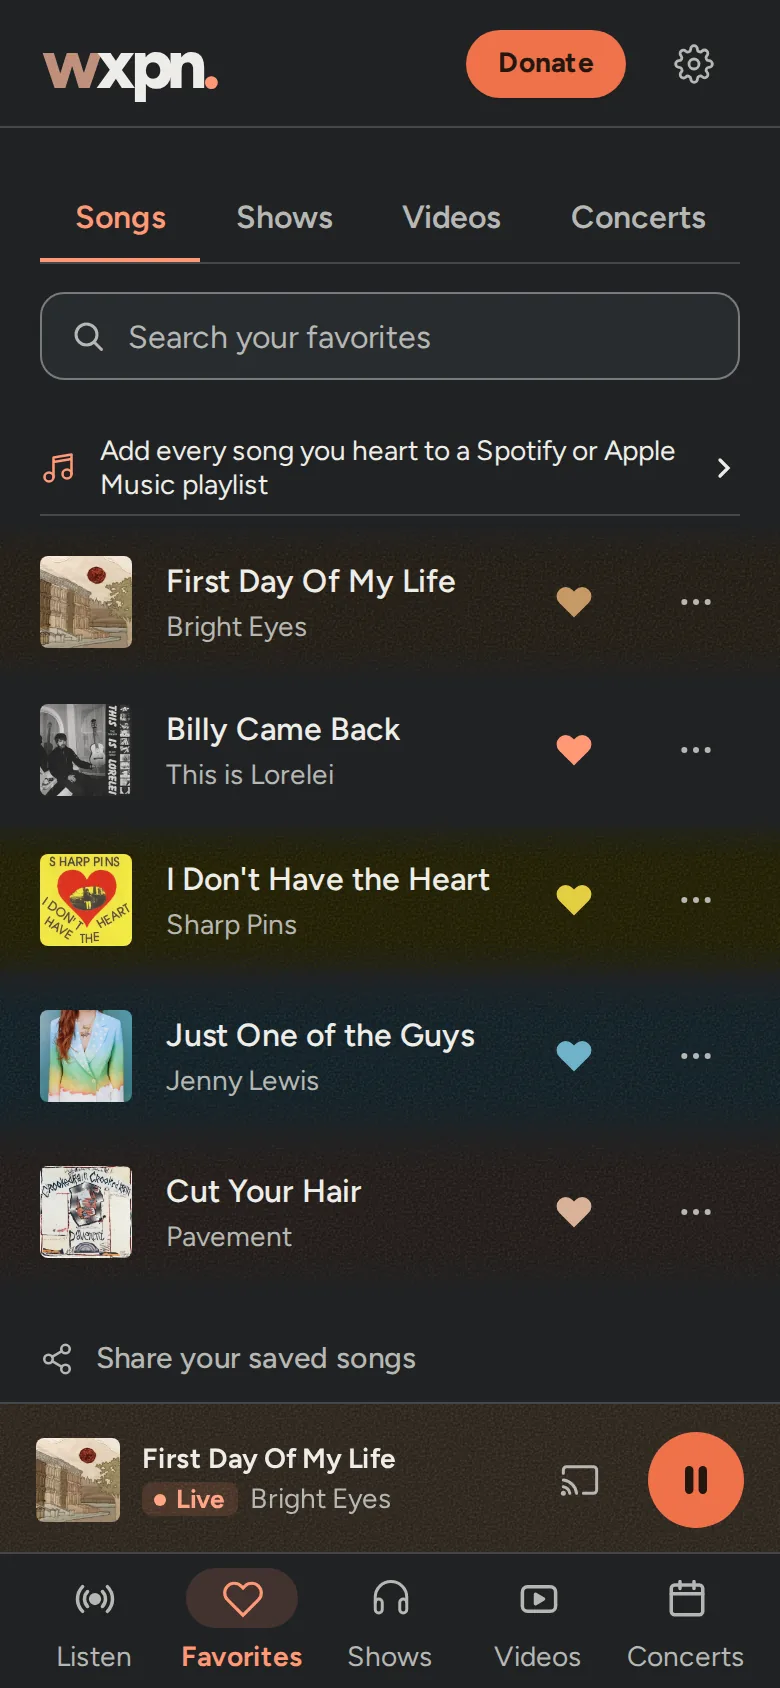
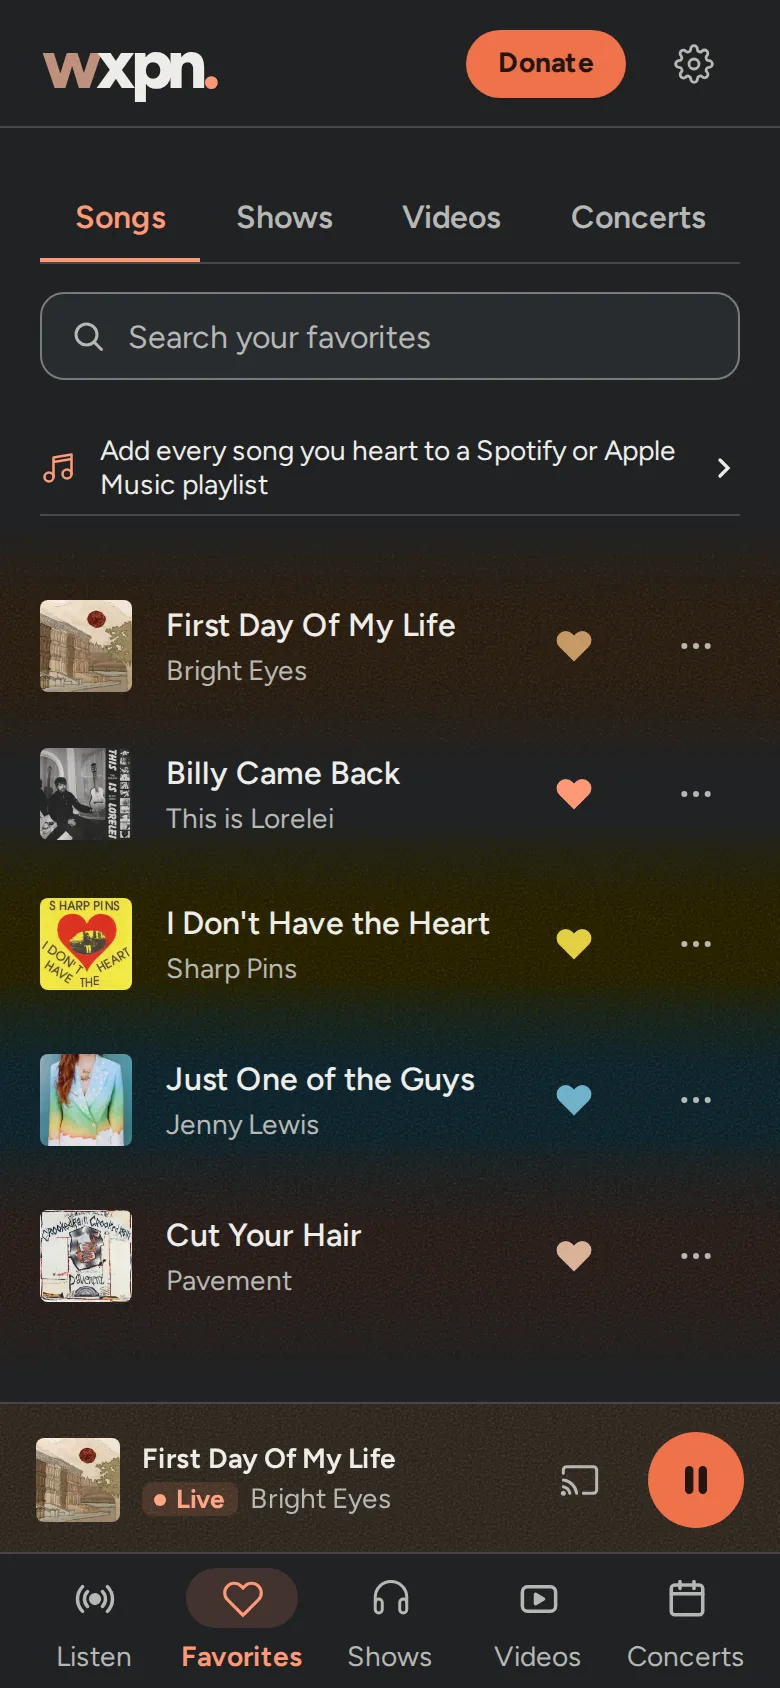
Screens page: Favorites with the bands running into each other
Claude-Session: https://claude.ai/code/session_01CGtg5EwPMMWJmEAcWXW4sv

diff --git a/design/screens/index.html b/design/screens/index.html
@@ -635,7 +635,7 @@
                 width="390"
                 height="844"
                 loading="lazy"
-                alt="Saved songs under tabs for Songs, Shows, Videos and Concerts and a prompt to connect a music service; each colorful song sits on a band of its artwork’s color across the screen that fades out through the grain at its top and bottom, its heart in that color."
+                alt="Saved songs under tabs for Songs, Shows, Videos and Concerts and a prompt to connect a music service; the songs sit on bands of their artwork’s colors running down the screen, each color dissolving into the next through the grain, and each heart in its song’s color."
               />
             </div>
             <div class="caption"><h3>Favorites</h3></div>
